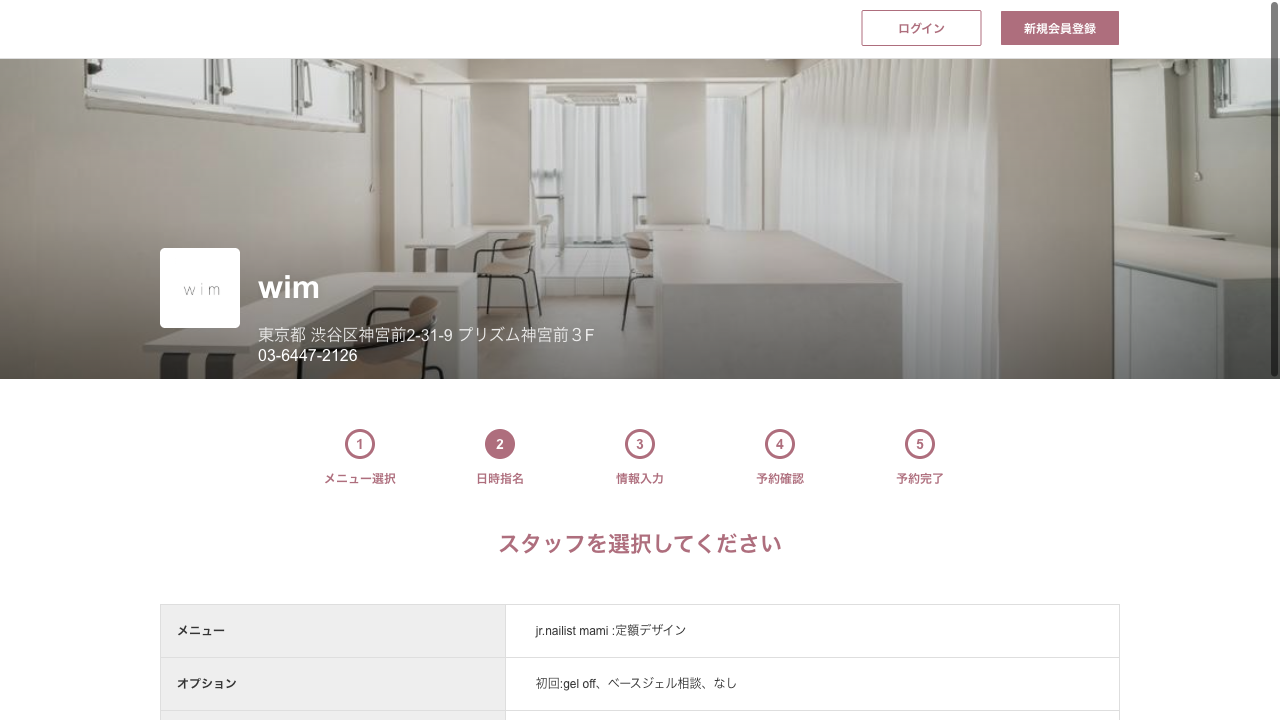
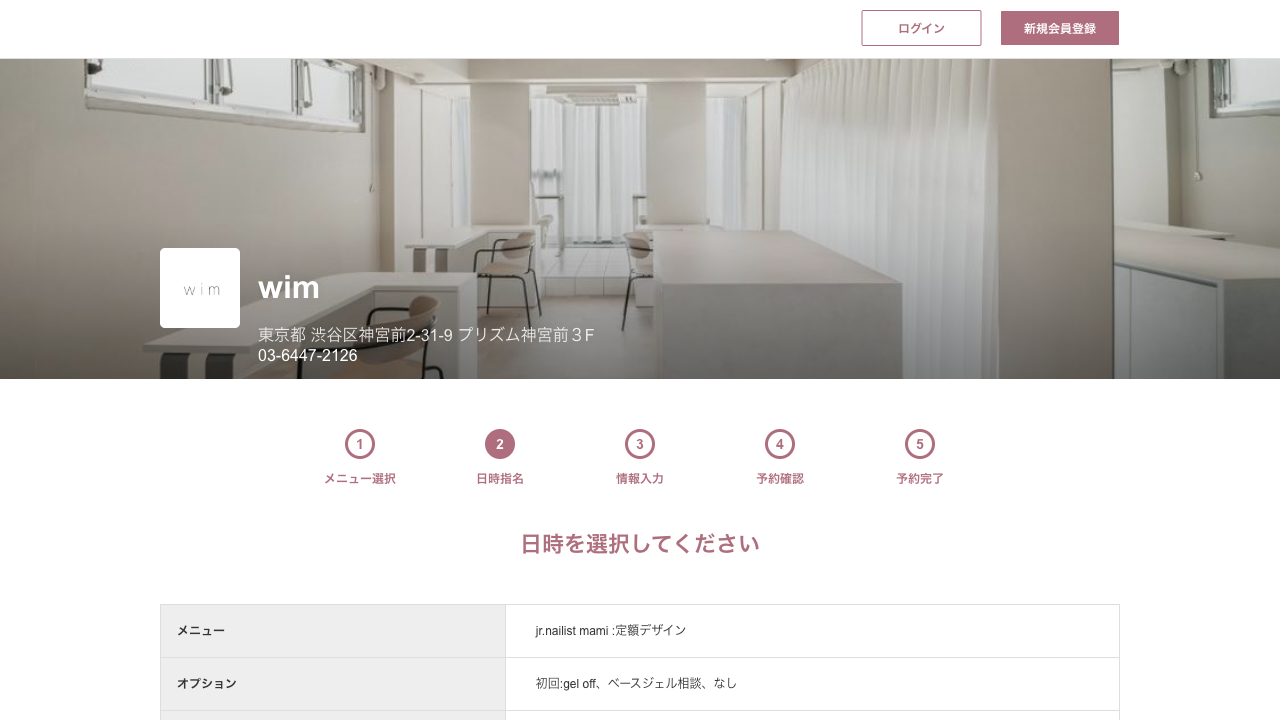
Navigate to calendar page by clicking staff nomination button

Changed region(s): [[0.9688, 0.0, 1.0, 0.5194], [0.375, 0.7333, 0.625, 0.7944]]

diff --git a/checker.py b/checker.py
@@ -19,6 +19,9 @@ async def check_slots():
         await page.click("a.nextButton")
         await page.wait_for_load_state("networkidle")        
         await page.screenshot(path="debug.png")
+        await page.click("a.nominationBtn")
+        await page.wait_for_load_state("networkidle")
+        await page.screenshot(path="debug.png")
         print("截图已保存！")
         
         await asyncio.sleep(3)
